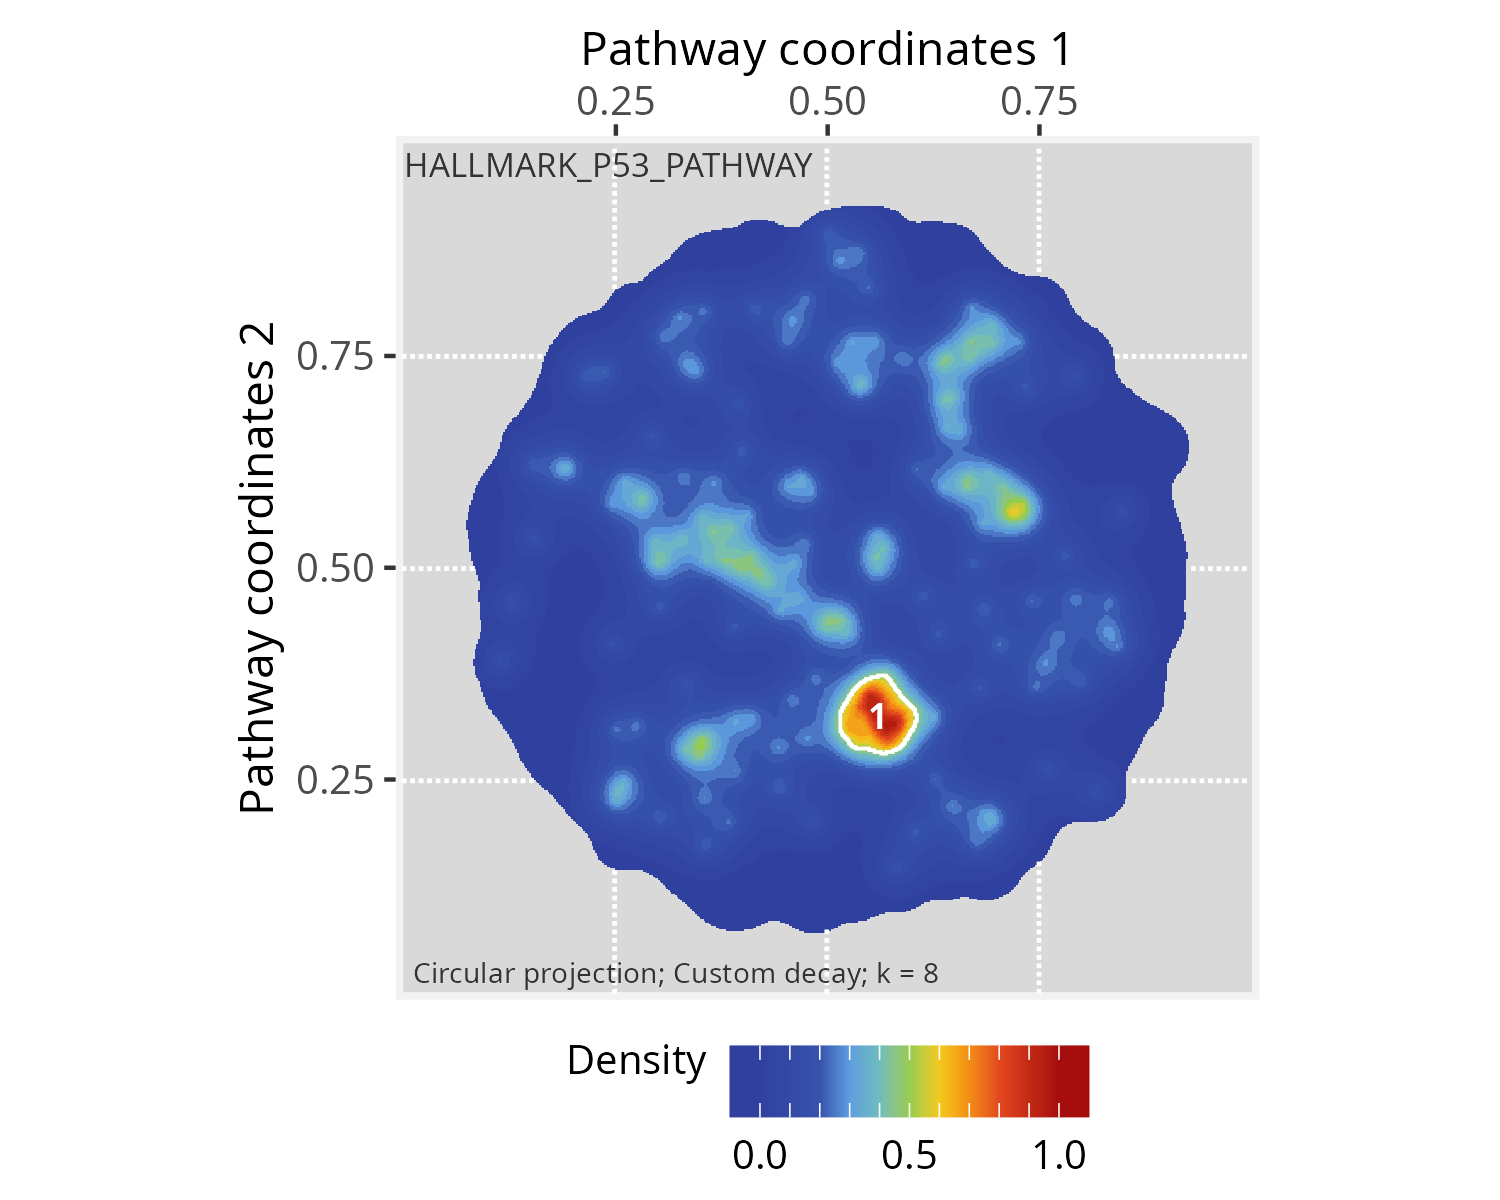
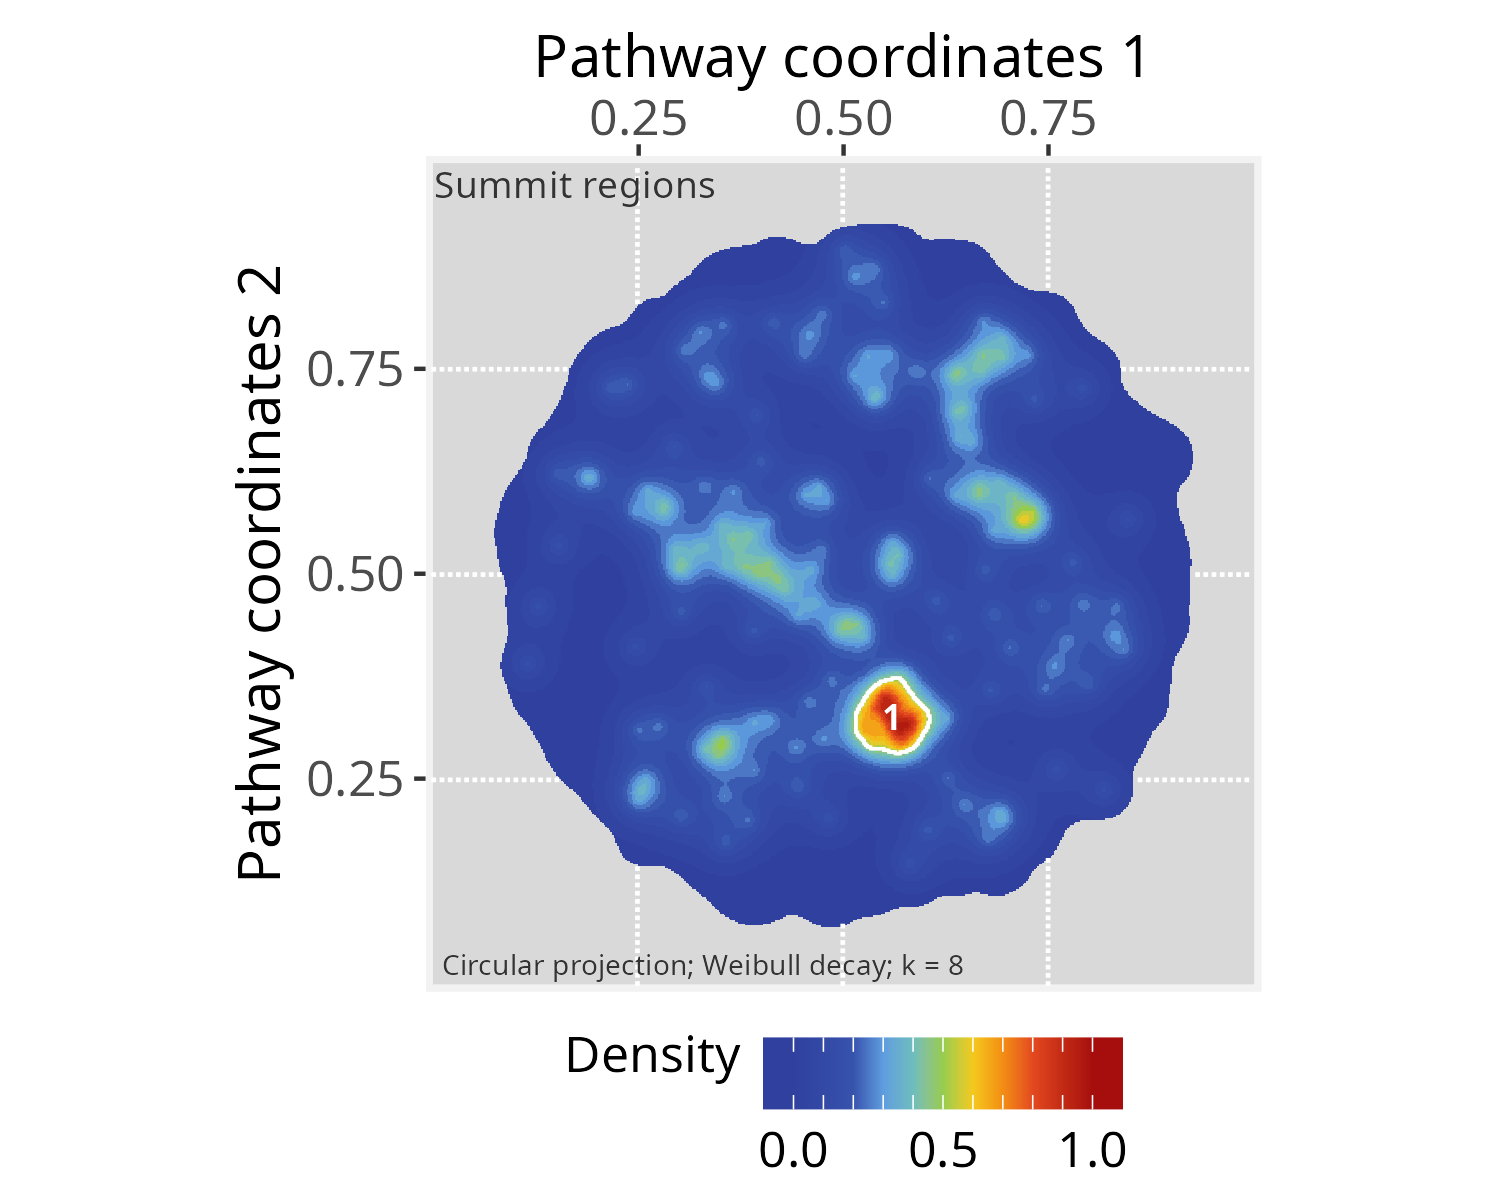
regular maintenance

diff --git a/spatial-transcriptomics.html b/spatial-transcriptomics.html
@@ -417,7 +417,7 @@ featured in <em>Seurat</em>’s tutorials, so users are encouraged to see
 how these packages can be used together.</p>
 </div>
 <div id="before-you-start" class="section level1">
-<h1>Before You Start</h1>
+<h1>Before you start</h1>
 <p>This vignette assumes prior experience with <a
 href="https://satijalab.org/seurat/" target="_blank"
 rel="noopener"><em>Seurat</em></a> <span class="citation">(Hao et al.
@@ -428,6 +428,11 @@ workflows, we recommend reviewing the <a
 href="https://satijalab.org/seurat/articles/get_started_v5_new#spatial-analysis"
 target="_blank" rel="noopener">spatial analysis tutorials</a> before
 continuing.</p>
+<p><strong>Computational requirement:</strong></p>
+<ul>
+<li><p>Hardware: RAM &gt;= 16 GB</p></li>
+<li><p>Software: R (&gt;=4.4) and RStudio</p></li>
+</ul>
 </div>
 <div id="required-packages" class="section level1">
 <h1>Required packages</h1>
@@ -702,20 +707,19 @@ with <em>Seurat</em> and then extracting the relevant data for
 this dataset, refer to <em>Seurat</em>’s <a
 href="https://satijalab.org/seurat/articles/visiumhd_analysis_vignette.html"
 target="_blank" rel="noopener">visiumhd_analysis_vignette</a>.</p>
-<p>The Visium HD dataset can be downloaded from the 10x Genomics
-repository at:</p>
+<p><strong>The Visium HD dataset can be downloaded from the <a
+href="https://www.10xgenomics.com/datasets">10x Genomics</a>
+repository:</strong></p>
 <ul>
-<li>Dataset: Visium HD Spatial Gene Expression Library, Mouse Brain
-(FFPE)</li>
-<li>Repository: <a
+<li>Dataset: <a
 href="https://www.10xgenomics.com/datasets/visium-hd-cytassist-gene-expression-libraries-of-mouse-brain-he"
-target="_blank" rel="noopener">https://www.10xgenomics.com/datasets
-…</a></li>
-<li>Location: Output and supplemental files</li>
+target="_blank" rel="noopener">Visium HD Spatial Gene Expression
+Library, Mouse Brain (FFPE)</a></li>
+<li>Where to find it: Output and supplemental files</li>
 <li>Download: <a
 href="https://cf.10xgenomics.com/samples/spatial-exp/3.0.0/Visium_HD_Mouse_Brain/Visium_HD_Mouse_Brain_binned_outputs.tar.gz">Binned
 outputs (all bin levels)</a></li>
-<li>File name: Visium_HD_Mouse_Brain_binned_outputs.tar.gz</li>
+<li>File: Visium_HD_Mouse_Brain_binned_outputs.tar.gz</li>
 <li>MD5: 2e728d1c1bda99a36535ba45b4319a98</li>
 <li>Size: 4.62 GB</li>
 </ul>

diff --git a/sparse-feature-sets.html b/sparse-feature-sets.html
@@ -514,6 +514,7 @@ p_space_PCv12 &lt;- circularProjection(p_space_PCv12)</code></pre>
 silhouettes and plot the results.</p>
 <pre class="r"><code># Add silhouettes
 p_space_PCv12 &lt;- silhouetteMapping(p_space_PCv12)
+# Plot the results
 plotPathwaySpace(p_space_PCv12, title=&quot;HALLMARK_P53_PATHWAY&quot;, marks = top10hubs, mark.size = 2, theme = &quot;th3&quot;)</code></pre>
 <p><img src="figs_feature_sets/fig2.png" width="100%" /></p>
 </div>
@@ -531,7 +532,7 @@ extract vertices within summits, next we use the
 contour lines.</p>
 <pre class="r"><code># Mapping summits
 p_space_PCv12 &lt;- summitMapping(p_space_PCv12, minsize = 50)
-plotPathwaySpace(p_space_PCv12, title=&quot;HALLMARK_P53_PATHWAY&quot;, theme = &quot;th3&quot;)</code></pre>
+plotPathwaySpace(p_space_PCv12, title=&quot;Summit regions&quot;, theme = &quot;th3&quot;)</code></pre>
 <p><img src="figs_feature_sets/fig3.png" width="100%" /></p>
 <pre class="r"><code># Extracting summits from a PathwaySpace
 summits &lt;- getPathwaySpace(p_space_PCv12, &quot;summits&quot;)

diff --git a/modeling-signal-decay.html b/modeling-signal-decay.html
@@ -486,7 +486,7 @@ returns a decay function with customized parameters.</p>
 ##     y &lt;- signal * 0.25^((x/0.75)^2)
 ##     return(y)
 ## }
-## &lt;environment: 0x58f7c44ba180&gt;
+## &lt;environment: 0x5868b31f8200&gt;
 ## attr(,&quot;name&quot;)
 ## [1] &quot;weibullDecay&quot;</code></pre>
 <p></br></p>
